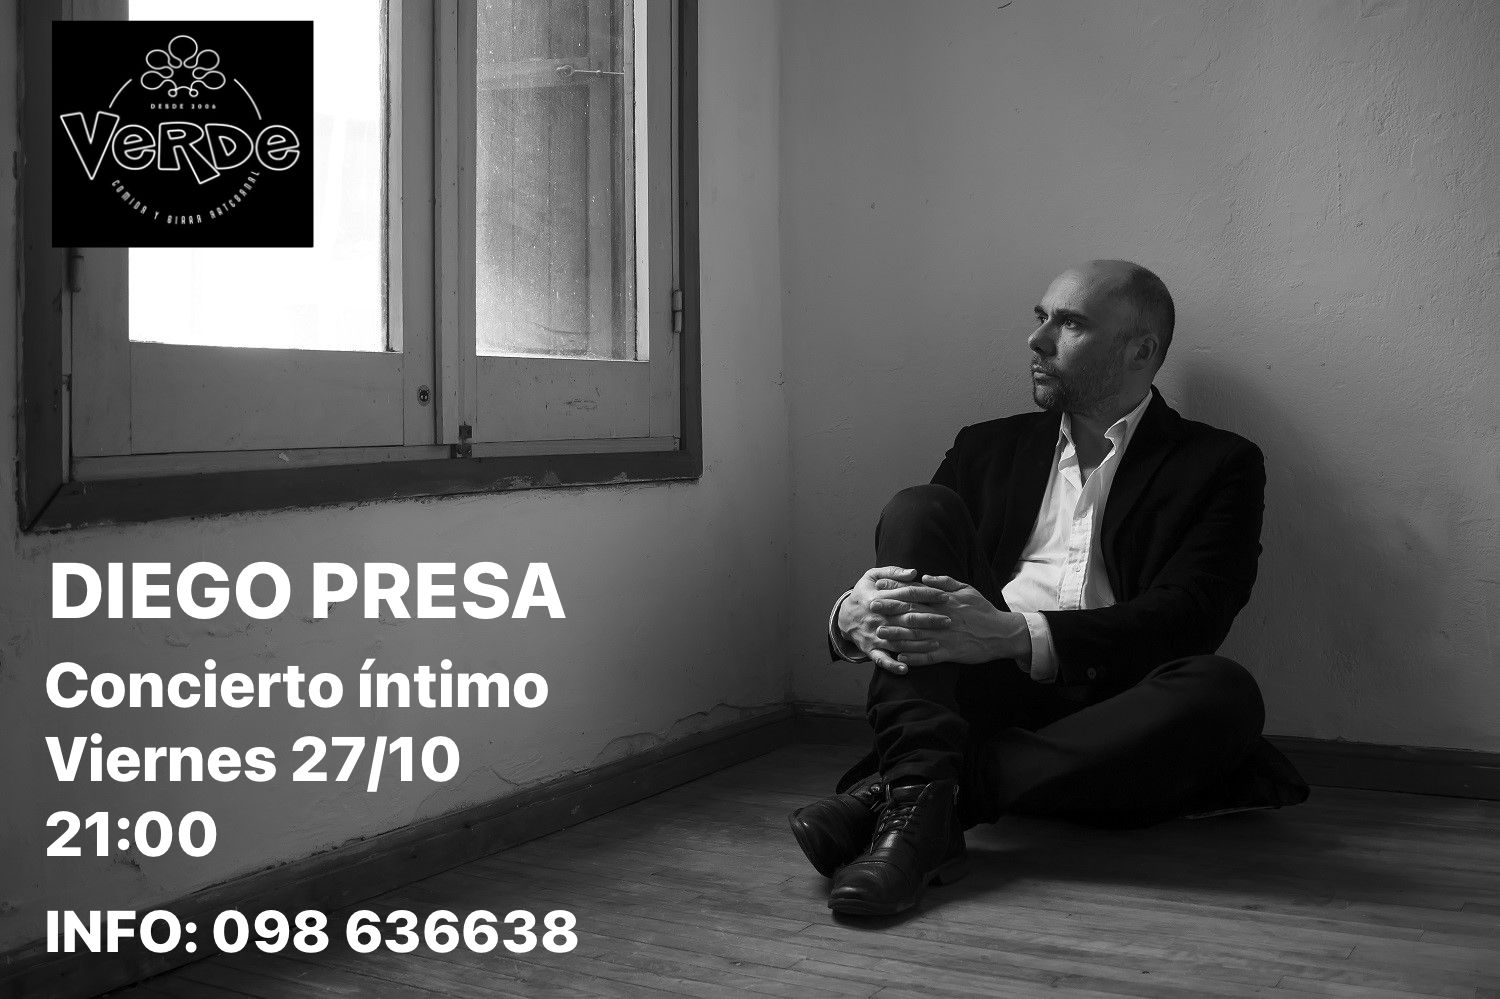
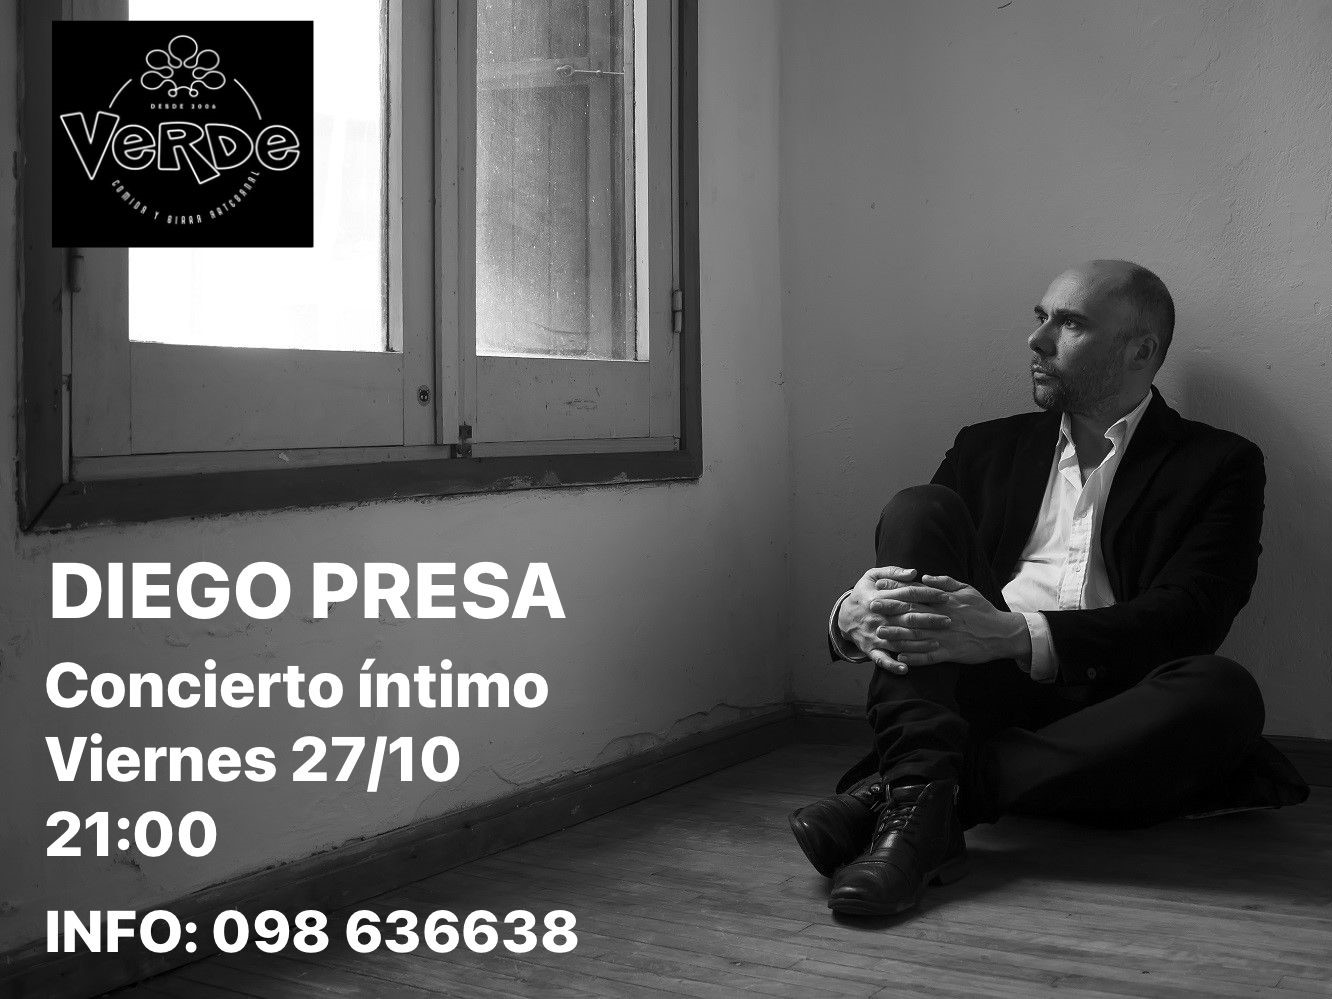
acomodo fotos

diff --git a/scss/_noticias.scss b/scss/_noticias.scss
@@ -132,20 +132,27 @@ body{
                             height: 330px;
                             margin: 0%;
                             padding: 0%;
-                            object-fit: cover;
-                        }
-                        .imgNoticiasDos {
-                            width: fit-content;
-                            height: 330px;
-                            margin: 0%;
-                            padding: 0%;
+                            object-fit: contain;
                         }
                         .imgNoticiasTres {
                             width: 360px;
                             height: 330px;
                             margin: 0%;
                             padding: 0%;
-                            object-fit: cover;
+                            object-fit: contain;
+                        }
+                    }
+                    .divImgNoticiasDos{
+                        overflow-y: hidden;
+                        overflow-x: hidden;
+                        display: flex;
+                        justify-content: center;
+                        width: 95%;
+                        height: 290px;
+                        .imgNoticiasDos {
+                            margin: 0%;
+                            padding: 0%;
+                            object-fit: contain;
                         }
                     }
                     .divTextoNoticias {

diff --git a/css/styles.css b/css/styles.css
@@ -1260,20 +1260,27 @@ body .mainNoticias .noticias .divNoticiasUno .divFechaNoticias {
     height: 330px;
     margin: 0%;
     padding: 0%;
-    object-fit: cover;
-  }
-  body .mainNoticias .noticias .divNoticiasUno .divImgNoticias .imgNoticiasDos {
-    width: fit-content;
-    height: 330px;
-    margin: 0%;
-    padding: 0%;
+    object-fit: contain;
   }
   body .mainNoticias .noticias .divNoticiasUno .divImgNoticias .imgNoticiasTres {
     width: 360px;
     height: 330px;
     margin: 0%;
     padding: 0%;
-    object-fit: cover;
+    object-fit: contain;
+  }
+  body .mainNoticias .noticias .divNoticiasUno .divImgNoticiasDos {
+    overflow-y: hidden;
+    overflow-x: hidden;
+    display: flex;
+    justify-content: center;
+    width: 95%;
+    height: 290px;
+  }
+  body .mainNoticias .noticias .divNoticiasUno .divImgNoticiasDos .imgNoticiasDos {
+    margin: 0%;
+    padding: 0%;
+    object-fit: contain;
   }
   body .mainNoticias .noticias .divNoticiasUno .divTextoNoticias {
     display: flex;

diff --git a/pages/noticias.html b/pages/noticias.html
@@ -75,7 +75,7 @@
                 <div class="divHrNoticias col-md-12 col-sm-12 d-flex justify-content-center">
                     <hr class="hrNoticias">
                 </div>
-                <div class="col-md-4 col-sm-12 divImgNoticias">
+                <div class="col-md-4 col-sm-12 divImgNoticiasDos">
                     <img class="imgNoticiasDos" src="../assets/img/octubreVeintisiete.jpg" alt="foto">
                 </div>
                 <div class="col-md-4 col-sm-12 divTextoNoticias">
